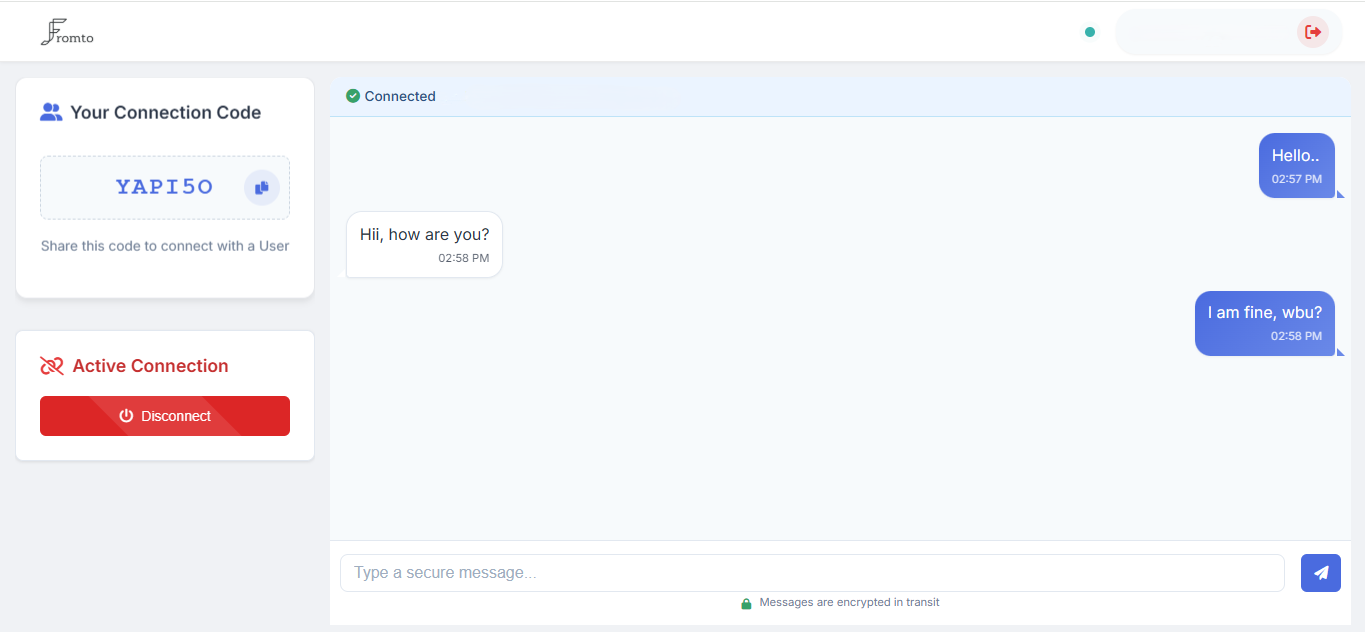
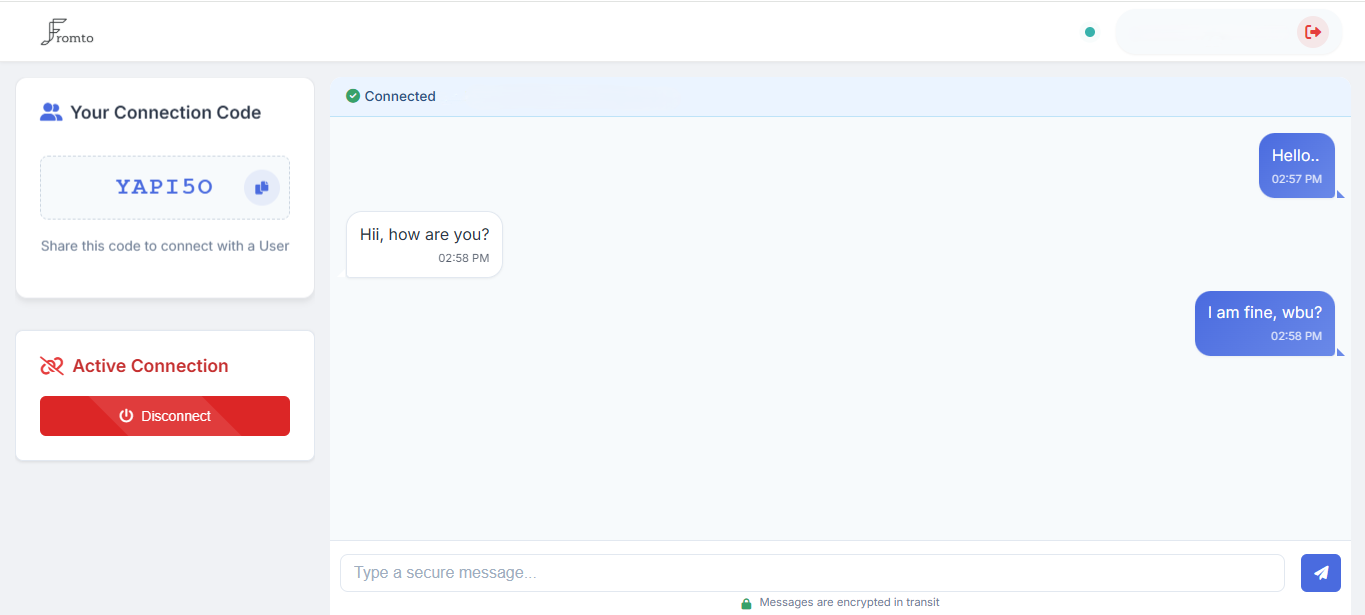
updated home page

diff --git a/public/index.html b/public/index.html
@@ -21,7 +21,7 @@
 
     <header class="lg:tw-justify-around tw-max-w-lg:tw-px-4 tw-max-w-lg:tw-mr-auto tw-absolute tw-top-0 tw-z-20 tw-flex tw-h-[60px] tw-w-full tw-bg-opacity-0 tw-px-[5%] 
                     tw-text-white">
-        <a class="tw-h-[50px] tw-w-[50px] tw-p-[4px]" href>
+        <a class="tw-h-[90px] tw-w-[120px] tw-p-[10px]" href>
             <img src="https://kartikbansode.github.io/Fromto/assets/logo-black-full.png" alt="logo"
                 class="tw-object tw-h-full tw-w-full" />
         </a>
